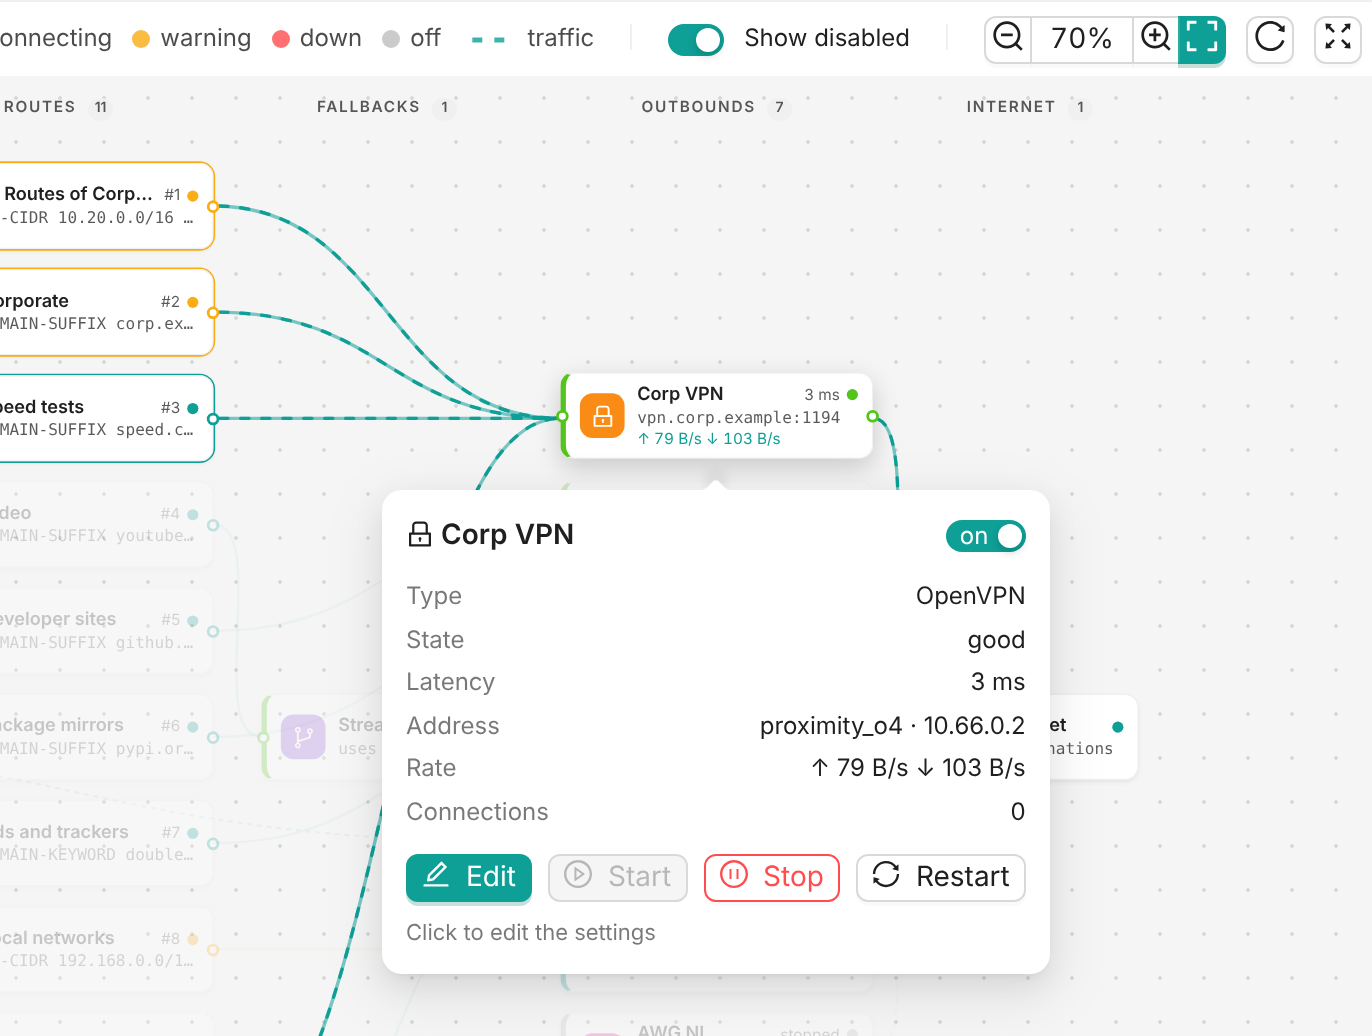
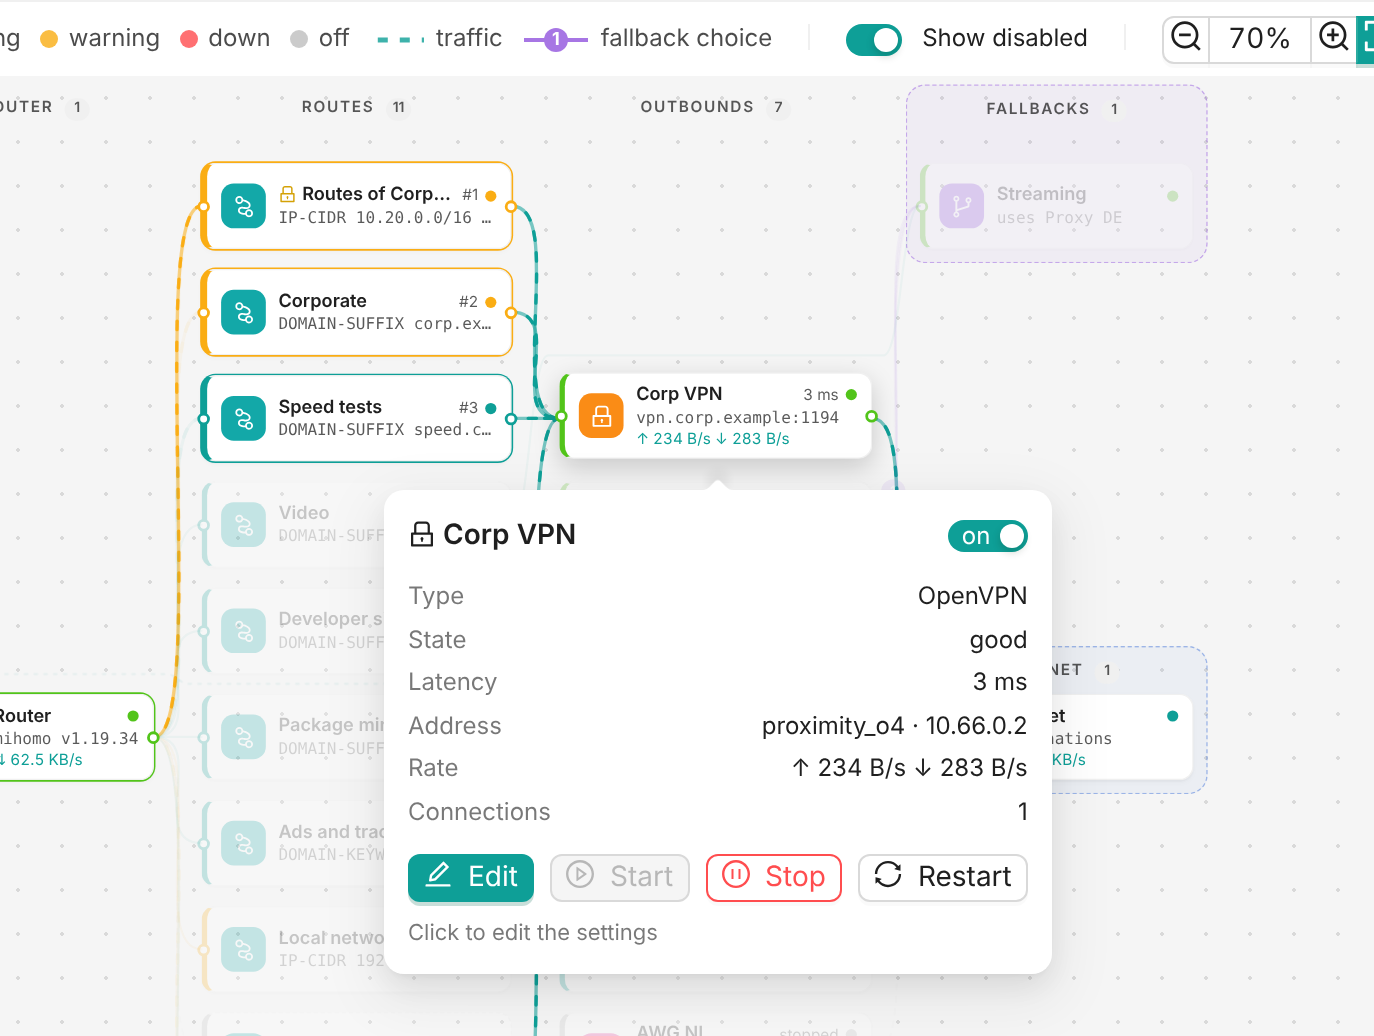
Map: route skipping edges through corridors
An edge that skips a column (a route to a fallback, an inbound
straight to an outbound) no longer passes under the cards of that
column. It enters the gap between two cards nearest to its ends,
runs straight through it and leaves on the other side. Edges that
share a gap are spread a few pixels apart. Screenshots and the user
guide are updated.

diff --git a/web/src/components/topology.js b/web/src/components/topology.js
@@ -4,11 +4,13 @@ import { stateTone } from '../states'
 export const nodeHeight = 62
 export const columnTitles = ['Sources', 'Router', 'Routes', 'Fallbacks', 'Outbounds', 'Internet']
 
-const columnWidths = [212, 170, 222, 180, 224, 156]
+const columnWidths = [212, 170, 222, 0, 224, 196]
 const gap = 14
 const pad = 22
 const header = 40
 const minimumSpace = 34
+const groupGap = 50
+const groupPad = 10
 
 const speed = (traffic) => traffic ? (traffic.upload_rate || 0) + (traffic.download_rate || 0) : 0
 
@@ -96,7 +98,7 @@ export function buildGraph(data, overview, showDisabled) {
       const node = nodes.get(`outbound:${member}`)
       return node && node.state === 'good'
     })
-    const id = add({ id: `fallback:${fallback.id}`, column: 3, kind: 'fallback', record: fallback, title: fallback.id,
+    const id = add({ id: `fallback:${fallback.id}`, column: 5, kind: 'fallback', record: fallback, title: fallback.id,
       subtitle: alive ? `uses ${alive}` : 'No outbound is alive', disabled: !fallback.enabled,
       state: !fallback.enabled ? 'off' : alive ? 'good' : 'bad',
       details: [['Outbounds', fallback.outbounds.join(' → ') || '—'],
@@ -182,9 +184,28 @@ function prune(nodes, edges, showDisabled) {
   return { nodes, edges: visible.filter((edge) => nodes.has(edge.to)) }
 }
 
-function bezier(x1, y1, x2, y2, t) {
-  const dx = Math.max(40, (x2 - x1) / 2)
-  const points = [[x1, y1], [x1 + dx, y1], [x2 - dx, y2], [x2, y2]]
+function curve(x1, y1, x2, y2) {
+  const dx = Math.max(40, Math.abs(x2 - x1) / 2) * (x2 >= x1 ? 1 : -1)
+  return [[x1, y1], [x1 + dx, y1], [x2 - dx, y2], [x2, y2]]
+}
+
+function corridors(column) {
+  const nodes = [...column.nodes].sort((left, right) => left.y - right.y)
+  const result = nodes.slice(1).map((node, index) => (nodes[index].y + nodeHeight + node.y) / 2)
+  return [nodes[0].y - gap, ...result, nodes.at(-1).y + nodeHeight + gap]
+}
+
+function route(points) {
+  const parts = points.slice(1).map(([x2, y2], index) => {
+    const [x1, y1] = points[index]
+    if (y1 === y2) return `L ${x2} ${y2}`
+    const dx = (x2 - x1) / 2
+    return `C ${x1 + dx} ${y1}, ${x2 - dx} ${y2}, ${x2} ${y2}`
+  })
+  return `M ${points[0][0]} ${points[0][1]} ${parts.join(' ')}`
+}
+
+function bezier(points, t) {
   const weights = [(1 - t) ** 3, 3 * (1 - t) ** 2 * t, 3 * (1 - t) * t * t, t ** 3]
   return points.reduce((sum, point, index) => [sum[0] + point[0] * weights[index], sum[1] + point[1] * weights[index]], [0, 0])
 }
@@ -195,57 +216,108 @@ function edgeState(from, to) {
   return state === 'info' ? 'good' : state
 }
 
+function stack(nodes, top) {
+  nodes.forEach((node, index) => {
+    node.y = top + index * (nodeHeight + gap)
+  })
+  return nodes.length ? top + nodes.length * nodeHeight + (nodes.length - 1) * gap : top
+}
+
 export function layoutGraph(graph, viewportWidth) {
   const all = [...graph.nodes.values()]
+  all.forEach((node) => {
+    delete node.y
+  })
   const used = [...new Set(all.map((node) => node.column))].sort((left, right) => left - right)
   const columns = used.map((index) => ({ index, title: columnTitles[index], nodes: all.filter((node) => node.column === index) }))
   const count = columns.length
   const occupied = columns.reduce((sum, column) => sum + columnWidths[column.index], 0)
   const width = Math.max(viewportWidth, pad * 2 + occupied + (count - 1) * minimumSpace)
   const space = count > 1 ? (width - pad * 2 - occupied) / (count - 1) : 0
-  let left = pad
-  const tallest = Math.max(1, ...columns.map((column) => column.nodes.length))
-  const content = tallest * nodeHeight + (tallest - 1) * gap
+  const tallest = Math.max(1, ...columns.filter((column) => column.index !== 5).map((column) => column.nodes.length))
+  const span = (size) => size ? size * nodeHeight + (size - 1) * gap : 0
+  const last = columns.find((column) => column.index === 5)
+  const split = last ? last.nodes.filter((node) => node.kind === 'fallback').length : 0
+  const content = Math.max(span(tallest), split ? span(split) + groupGap + header - 6 + span(last.nodes.length - split) : 0)
   const incoming = new Map()
   for (const edge of graph.edges) {
     incoming.set(edge.to, [...(incoming.get(edge.to) || []), edge.from])
   }
+  const center = (node, seen = new Set()) => {
+    seen.add(node.id)
+    const levels = (incoming.get(node.id) || []).map((id) => graph.nodes.get(id)).filter((item) => !seen.has(item.id))
+      .map((item) => item.y !== undefined ? item.y : center(item, seen)).filter(Number.isFinite)
+    return levels.length ? levels.reduce((sum, level) => sum + level, 0) / levels.length : Infinity
+  }
+  const order = (nodes) => {
+    const weights = new Map(nodes.map((node) => [node.id, center(node)]))
+    return nodes.sort((left, right) => weights.get(left.id) - weights.get(right.id) || 0)
+  }
+  const groups = []
+  let left = pad
   columns.forEach((column) => {
-    if (column.index === 3 || column.index === 4) {
-      const center = (node) => {
-        const sources = (incoming.get(node.id) || []).map((id) => graph.nodes.get(id)).filter((item) => item.y !== undefined)
-        return sources.length ? sources.reduce((sum, item) => sum + item.y, 0) / sources.length : Infinity
-      }
-      const weights = new Map(column.nodes.map((node) => [node.id, center(node)]))
-      column.nodes.sort((left, right) => weights.get(left.id) - weights.get(right.id) || 0)
-    }
-    const height = column.nodes.length * nodeHeight + (column.nodes.length - 1) * gap
-    const top = header + pad + (content - height) / 2
     column.x = left
     column.width = columnWidths[column.index]
     left += column.width + space
-    column.nodes.forEach((node, index) => {
+    column.nodes.forEach((node) => {
       node.x = column.x
       node.width = column.width
-      node.y = top + index * (nodeHeight + gap)
     })
+    if (column.index === 4) order(column.nodes)
+    const fallbacks = column.index === 5 ? order(column.nodes.filter((node) => node.kind === 'fallback')) : []
+    if (!fallbacks.length) {
+      stack(column.nodes, header + pad + (content - span(column.nodes.length)) / 2)
+      return
+    }
+    const rest = column.nodes.filter((node) => node.kind !== 'fallback')
+    const bottom = stack(fallbacks, header + pad)
+    groups.push({ key: 'fallbacks', title: columnTitles[3], count: fallbacks.length, x: column.x - groupPad, y: 6,
+      width: column.width + groupPad * 2, height: bottom + groupPad - 6 })
+    column.title = ''
+    if (rest.length) {
+      const top = Math.max(header + pad + (content - span(rest.length)) / 2, bottom + groupGap + header - 6)
+      const end = stack(rest, top)
+      groups.push({ key: 'internet', title: columnTitles[5], count: rest.length, x: column.x - groupPad, y: top - header + 6,
+        width: column.width + groupPad * 2, height: end - top + header - 6 + groupPad })
+    }
   })
+  const lanes = new Map()
+  const lane = (column, level) => {
+    const key = `${column.index}:${level}`
+    const used = lanes.get(key) || 0
+    lanes.set(key, used + 1)
+    return level + [0, -3, 3, -6, 6][used % 5]
+  }
+  const detour = (from, to, x1, y1, x2, y2) => {
+    const points = [[x1, y1]]
+    let level = y1
+    columns.filter((column) => column.index > from.column && column.index < to.column && column.nodes.length)
+      .forEach((column) => {
+        const nearest = corridors(column).reduce((best, item) =>
+          Math.abs(item - level) + Math.abs(item - y2) < Math.abs(best - level) + Math.abs(best - y2) ? item : best)
+        level = lane(column, nearest)
+        points.push([column.x - 8, level], [column.x + column.width + 8, level])
+      })
+    return [...points, [x2, y2]]
+  }
   const edges = graph.edges.map((edge) => {
     const from = graph.nodes.get(edge.from)
     const to = graph.nodes.get(edge.to)
-    const x1 = from.x + from.width
-    const y1 = from.y + nodeHeight / 2
-    const x2 = to.x
-    const y2 = to.y + nodeHeight / 2
-    const dx = Math.max(40, (x2 - x1) / 2)
+    const back = to.x < from.x
+    const x1 = back ? from.x : from.x + from.width
+    const x2 = back ? to.x + to.width : to.x
+    const [y1, y2] = [from.y + nodeHeight / 2, to.y + nodeHeight / 2]
+    const points = curve(x1, y1, x2, y2)
+    const waypoints = back ? [] : detour(from, to, x1, y1, x2, y2)
     const state = edgeState(from, to)
     const flowing = state !== 'off' && (to.kind === 'internet' || from.kind === 'inbound' ? from.active : to.active)
     const thickness = to.kind === 'internet' && from.active ? Math.min(7, 2.2 + Math.log10(1 + from.rate / 1024) * 1.4) : flowing ? 2.4 : 1.6
-    const [labelX, labelY] = bezier(x1, y1, x2, y2, 0.8)
-    return { ...edge, key: `${edge.from}>${edge.to}`, path: `M ${x1} ${y1} C ${x1 + dx} ${y1}, ${x2 - dx} ${y2}, ${x2} ${y2}`,
-      state, flowing, thickness, labelX, labelY }
+    const [labelX, labelY] = bezier(points, 0.8)
+    const path = waypoints.length > 2 ? route(waypoints)
+      : `M ${x1} ${y1} C ${points[1][0]} ${points[1][1]}, ${points[2][0]} ${points[2][1]}, ${x2} ${y2}`
+    return { ...edge, key: `${edge.from}>${edge.to}`, path, back, state, flowing, thickness, labelX, labelY }
   })
-  return { width, height: header + pad * 2 + content, columns, nodes: all, edges }
+  return { width, height: header + pad * 2 + content, columns, groups, nodes: all, edges }
 }
 
 export function related(graph, id) {

diff --git a/web/src/components/ConnectionMap.vue b/web/src/components/ConnectionMap.vue
@@ -5,6 +5,10 @@
       <div class="map-tools">
         <span v-for="[tone, label] in toneLegend" :key="tone" class="legend"><i class="swatch" :style="{ background: `var(--tone-${tone})` }" />{{ label }}</span>
         <span class="legend"><svg width="28" height="8" class="legend-flow" :style="palette"><path d="M 1 4 L 27 4" /></svg>traffic</span>
+        <a-tooltip title="A fallback sends traffic to the first alive outbound by the numbers 1, 2, 3; the filled number is in use">
+          <span class="legend"><svg width="34" height="16"><path class="legend-member" d="M 1 8 L 33 8" /><circle cx="17" cy="8" r="6"
+            class="legend-member-dot" /><text x="17" y="8" class="legend-member-text">1</text></svg>fallback choice</span>
+        </a-tooltip>
         <a-divider type="vertical" />
         <a-switch v-model:checked="showDisabled" size="small" /><span>Show disabled</span>
         <a-divider type="vertical" />
@@ -26,11 +30,15 @@
       @wheel="wheel" @mousedown="pan">
       <div class="map-sizer" :style="{ width: `${layout.width * zoom}px`, height: `${layout.height * zoom}px` }">
         <div class="map" :style="{ width: `${layout.width}px`, height: `${layout.height}px`, transform: `scale(${zoom})` }">
-          <div v-for="column in layout.columns" :key="column.index" class="column-title" :style="{ left: `${column.x}px`, width: `${column.width}px` }">
+          <div v-for="group in layout.groups" :key="group.key" :class="['map-group', `group-${group.key}`]"
+            :style="{ left: `${group.x}px`, top: `${group.y}px`, width: `${group.width}px`, height: `${group.height}px` }">
+            <div class="column-title group-title">{{ group.title }} <span class="column-count">{{ group.count }}</span></div>
+          </div>
+          <div v-for="column in layout.columns.filter((item) => item.title)" :key="column.index" class="column-title" :style="{ left: `${column.x}px`, width: `${column.width}px` }">
             {{ column.title }} <span class="column-count">{{ column.nodes.length }}</span>
           </div>
           <svg class="edges" :width="layout.width" :height="layout.height">
-            <g v-for="edge in layout.edges" :key="edge.key" :class="['edge', `edge-${edge.state}`, { 'edge-faded': faded(edge.key), 'edge-direct': edge.direct }]">
+            <g v-for="edge in layout.edges" :key="edge.key" :class="['edge', `edge-${edge.state}`, { 'edge-faded': faded(edge.key), 'edge-direct': edge.direct, 'edge-back': edge.back }]">
               <path class="edge-base" :d="edge.path" :stroke-width="edge.thickness" />
               <path v-if="edge.flowing" class="edge-flow" :d="edge.path" :stroke-width="edge.thickness" />
               <g v-if="edge.label" class="edge-label" :class="{ preferred: edge.preferred }">
@@ -162,7 +170,7 @@ const graph = computed(() => data.value ? buildGraph(data.value, props.overview,
 const layout = computed(() => layoutGraph(graph.value, width.value))
 const highlight = computed(() => hovered.value && graph.value.nodes.has(hovered.value) ? related(layout.value, hovered.value) : null)
 const hasIncoming = computed(() => new Set(layout.value.edges.map((edge) => edge.to)))
-const hasOutgoing = computed(() => new Set(layout.value.edges.map((edge) => edge.from)))
+const hasOutgoing = computed(() => new Set(layout.value.edges.filter((edge) => !edge.back).map((edge) => edge.from)))
 const outboundTargets = computed(() => data.value ? data.value.targets.filter((item) => item.kind === 'outbound') : [])
 
 const fitScale = computed(() => Math.max(minimumZoom, Math.min(1, width.value / layout.value.width, available.value / layout.value.height)))
@@ -398,6 +406,11 @@ onUnmounted(() => {
 .map-expanded .map-sizer { flex: none; margin: auto; }
 .column-title { position: absolute; top: 14px; text-align: center; font-size: 11px; font-weight: 600; letter-spacing: 1.2px;
   text-transform: uppercase; color: var(--text-secondary); }
+.map-group { position: absolute; box-sizing: border-box; border: 1px dashed var(--group-border); border-radius: 14px;
+  background: var(--group-surface); }
+.group-fallbacks { --group-border: rgba(146, 84, 222, 0.45); --group-surface: rgba(146, 84, 222, 0.05); }
+.group-internet { --group-border: rgba(61, 111, 216, 0.45); --group-surface: rgba(61, 111, 216, 0.05); }
+.group-title { top: 8px; left: 0; right: 0; }
 .column-count { display: inline-block; min-width: 18px; margin-left: 4px; padding: 0 5px; border-radius: 9px; font-size: 10px;
   background: var(--node-border); color: var(--text-secondary); letter-spacing: 0; }
 .edges { position: absolute; inset: 0; pointer-events: none; overflow: visible; }
@@ -411,6 +424,10 @@ onUnmounted(() => {
 .edge-warn { --edge: var(--warn); }
 .edge-bad { --edge: var(--bad); }
 .edge-off { --edge: var(--off); }
+.edge-back.edge-good { --edge: #9254de; }
+.legend-member { stroke: #9254de; stroke-width: 2; }
+.legend-member-dot { fill: #9254de; }
+.legend-member-text { font-size: 9px; font-weight: 700; fill: #fff; text-anchor: middle; dominant-baseline: central; }
 .edge-off .edge-base { stroke-dasharray: 4 5; }
 .edge-faded { opacity: .08; }
 .edge-label circle { fill: var(--node-surface); stroke: var(--edge); stroke-width: 1.4; }

diff --git a/docs/user-guide.md b/docs/user-guide.md
@@ -115,11 +115,14 @@ A live picture of what is connected to what, from left to right:
 | Sources | *Host applications* (transparent capture), the *Proxy port* and every inbound |
 | Router | mihomo, which checks the routes |
 | Routes | routes in priority order (`#1`, `#2` …) and *Everything else* (`MATCH`) |
-| Fallbacks | fallbacks; numbered edges show the priority of their outbounds, the filled number is the outbound in use |
 | Outbounds | outbounds with the remote server, latency and rate, plus `DIRECT` and `REJECT` when used |
-| Internet | destination servers |
+| Fallbacks and Internet | two framed groups in the last column: fallbacks on top, destination servers below |
 
-An inbound whose outbound is not *Router* is connected straight to its outbound (dotted
+An edge that skips a column (a route to a fallback, an inbound straight to an outbound) runs
+through the gap between the cards of that column. A route that sends traffic to a fallback
+leads to the *Fallbacks* group; purple numbered edges
+go back from the fallback to its outbounds in priority order, the filled number is the outbound
+in use. An inbound whose outbound is not *Router* is connected straight to its outbound (dotted
 edge). The color of an item and of the edges that lead to it shows the state: green —
 good, blue — connecting, amber — warning, red — down or failed, gray — disabled or
 stopped. Moving dashes show the edges that carry traffic now; the edge from an outbound to
